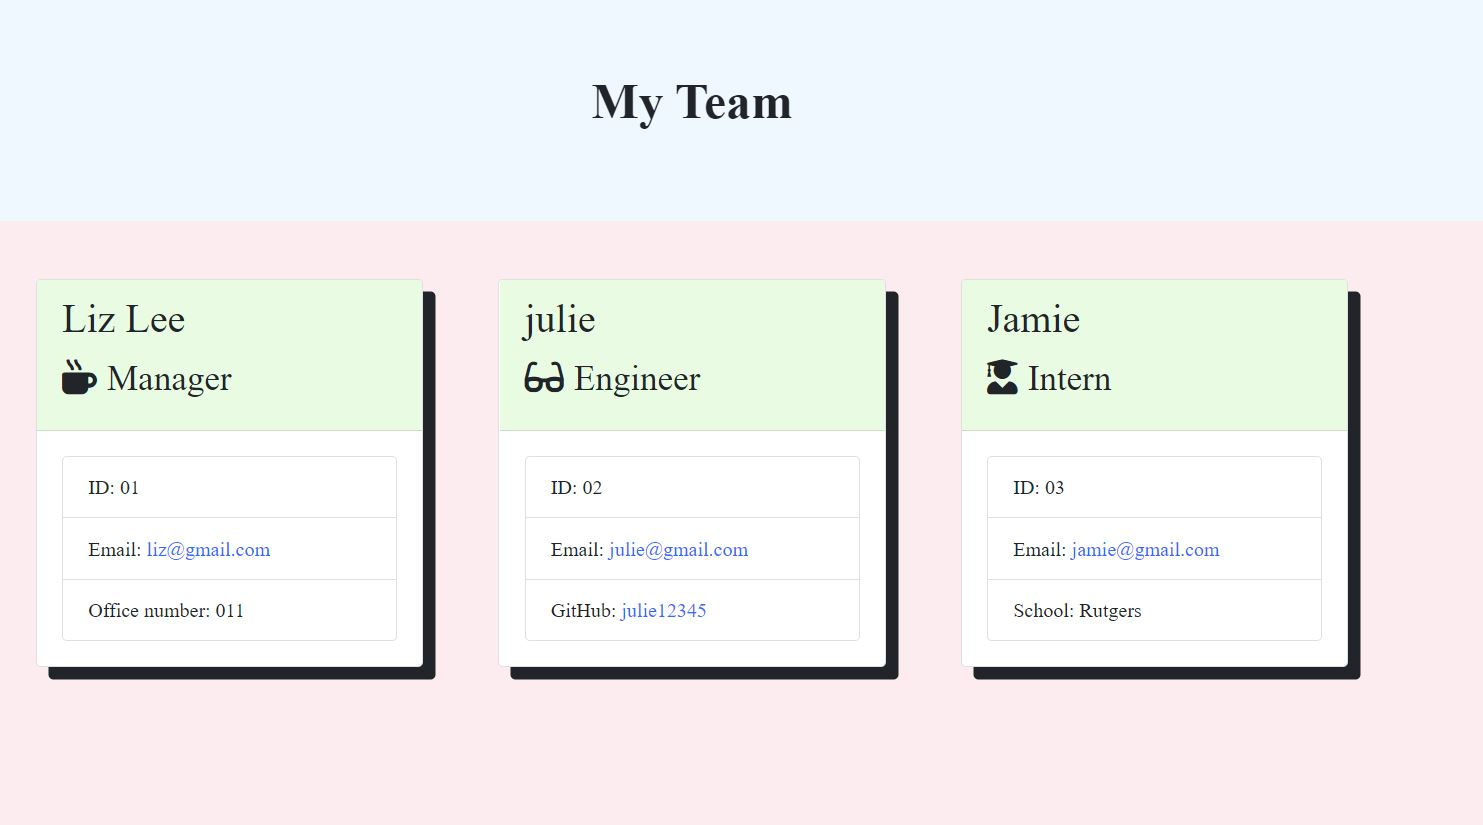
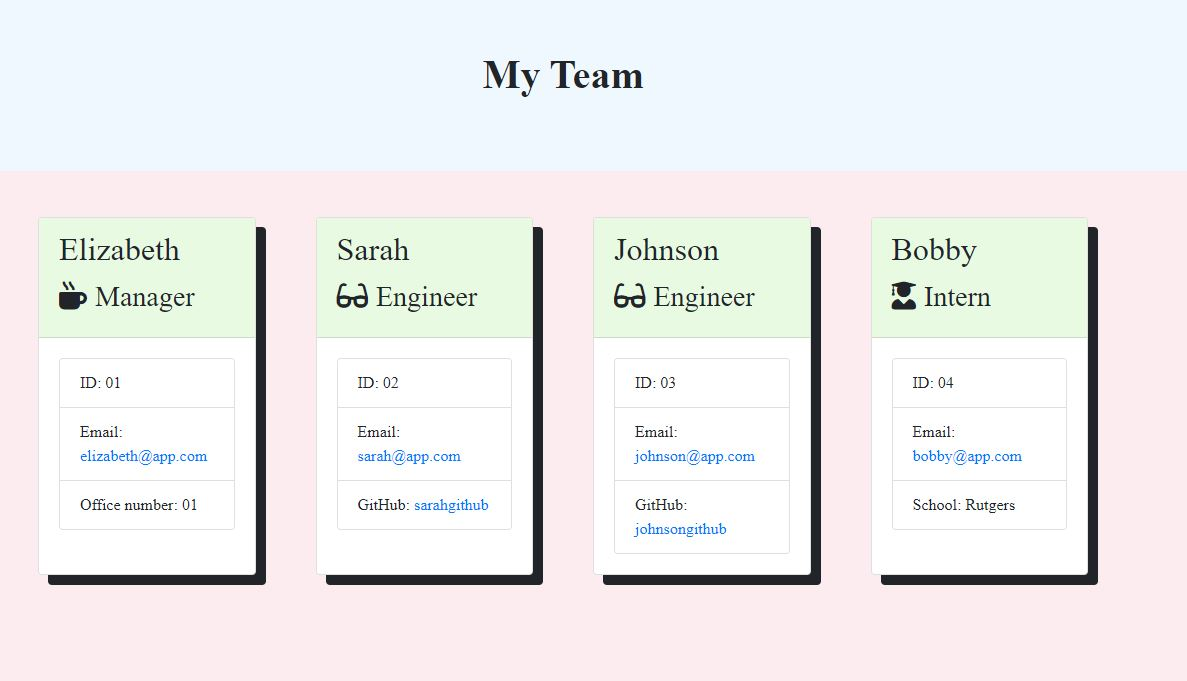
video added

diff --git a/Develop/output/team.html b/Develop/output/team.html
@@ -8,7 +8,7 @@
     <title>My Team</title>
     <link rel="stylesheet" href="https://stackpath.bootstrapcdn.com/bootstrap/4.3.1/css/bootstrap.min.css"
         integrity="sha384-ggOyR0iXCbMQv3Xipma34MD+dH/1fQ784/j6cY/iJTQUOhcWr7x9JvoRxT2MZw1T" crossorigin="anonymous">
-    <link rel="stylesheet" href="/Assets/css/style.css">
+    <link rel="stylesheet" href="style.css">
     <script src="https://kit.fontawesome.com/c502137733.js"></script>
 </head>
 
@@ -25,39 +25,52 @@
             <div class="team-area col-12 d-flex justify-content-center">
                 <div class="card employee-card">
     <div class="card-header">
-        <h2 class="card-title">Liz Lee</h2>
+        <h2 class="card-title">Elizabeth</h2>
         <h3 class="card-title"><i class="fas fa-mug-hot mr-2"></i>Manager</h3>
     </div>
     <div class="card-body">
         <ul class="list-group">
             <li class="list-group-item">ID: 01</li>
-            <li class="list-group-item">Email: <a href="mailto:liz@gmail.com">liz@gmail.com</a></li>
-            <li class="list-group-item">Office number: 011</li>
+            <li class="list-group-item">Email: <a href="mailto:elizabeth@app.com">elizabeth@app.com</a></li>
+            <li class="list-group-item">Office number: 01</li>
         </ul>
     </div>
 </div>
 <div class="card employee-card">
     <div class="card-header">
-        <h2 class="card-title">julie</h2>
+        <h2 class="card-title">Sarah</h2>
         <h3 class="card-title"><i class="fas fa-glasses mr-2"></i>Engineer</h3>
     </div>
     <div class="card-body">
         <ul class="list-group">
             <li class="list-group-item">ID: 02</li>
-            <li class="list-group-item">Email: <a href="mailto:julie@gmail.com">julie@gmail.com</a></li>
-            <li class="list-group-item">GitHub: <a href="https://github.com/julie12345" target="_blank" rel="noopener noreferrer">julie12345</a></li>
+            <li class="list-group-item">Email: <a href="mailto:sarah@app.com">sarah@app.com</a></li>
+            <li class="list-group-item">GitHub: <a href="https://github.com/sarahgithub" target="_blank" rel="noopener noreferrer">sarahgithub</a></li>
         </ul>
     </div>
 </div>
 <div class="card employee-card">
     <div class="card-header">
-        <h2 class="card-title">Jamie</h2>
-        <h3 class="card-title"><i class="fas fa-user-graduate mr-2"></i>Intern</h3>
+        <h2 class="card-title">Johnson</h2>
+        <h3 class="card-title"><i class="fas fa-glasses mr-2"></i>Engineer</h3>
     </div>
     <div class="card-body">
         <ul class="list-group">
             <li class="list-group-item">ID: 03</li>
-            <li class="list-group-item">Email: <a href="mailto:jamie@gmail.com">jamie@gmail.com</a></li>
+            <li class="list-group-item">Email: <a href="mailto:johnson@app.com">johnson@app.com</a></li>
+            <li class="list-group-item">GitHub: <a href="https://github.com/johnsongithub" target="_blank" rel="noopener noreferrer">johnsongithub</a></li>
+        </ul>
+    </div>
+</div>
+<div class="card employee-card">
+    <div class="card-header">
+        <h2 class="card-title">Bobby</h2>
+        <h3 class="card-title"><i class="fas fa-user-graduate mr-2"></i>Intern</h3>
+    </div>
+    <div class="card-body">
+        <ul class="list-group">
+            <li class="list-group-item">ID: 04</li>
+            <li class="list-group-item">Email: <a href="mailto:bobby@app.com">bobby@app.com</a></li>
             <li class="list-group-item">School: Rutgers</li>
         </ul>
     </div>

diff --git a/README.md b/README.md
@@ -21,7 +21,7 @@ so that I have quick access to emails and GitHub profiles
 
 * Below is what my application looks like.
 
-![Employee Summary 1](Assets\screenshots\DeployedHTML.JPG)
+![Employee Summary 1](https://github.com/dlekwjd347/Elizabeth-OOP-TDD-Employee-Summary/blob/master/Assets/screenshots/DeployedHTML.JPG)
 
 
 The dependencies are, [jest](https://jestjs.io/) for running the provided tests, and [inquirer](https://www.npmjs.com/package/inquirer) for collecting input from the user.
@@ -54,6 +54,8 @@ The project will generate a `team.html` page in the `output` directory, that dis
 * The URL of the GitHub repository: https://github.com/dlekwjd347/Elizabeth-OOP-TDD-Employee-Summary
 
 * A video demonstrating the entirety of the app's functionality 
+
+https://drive.google.com/file/d/1z3RTL6vSaJSCSC7xfbOO5a0LVIaB6b7B/view
 
 - - -
 © 2019 Trilogy Education Services, a 2U, Inc. brand. All Rights Reserved.
